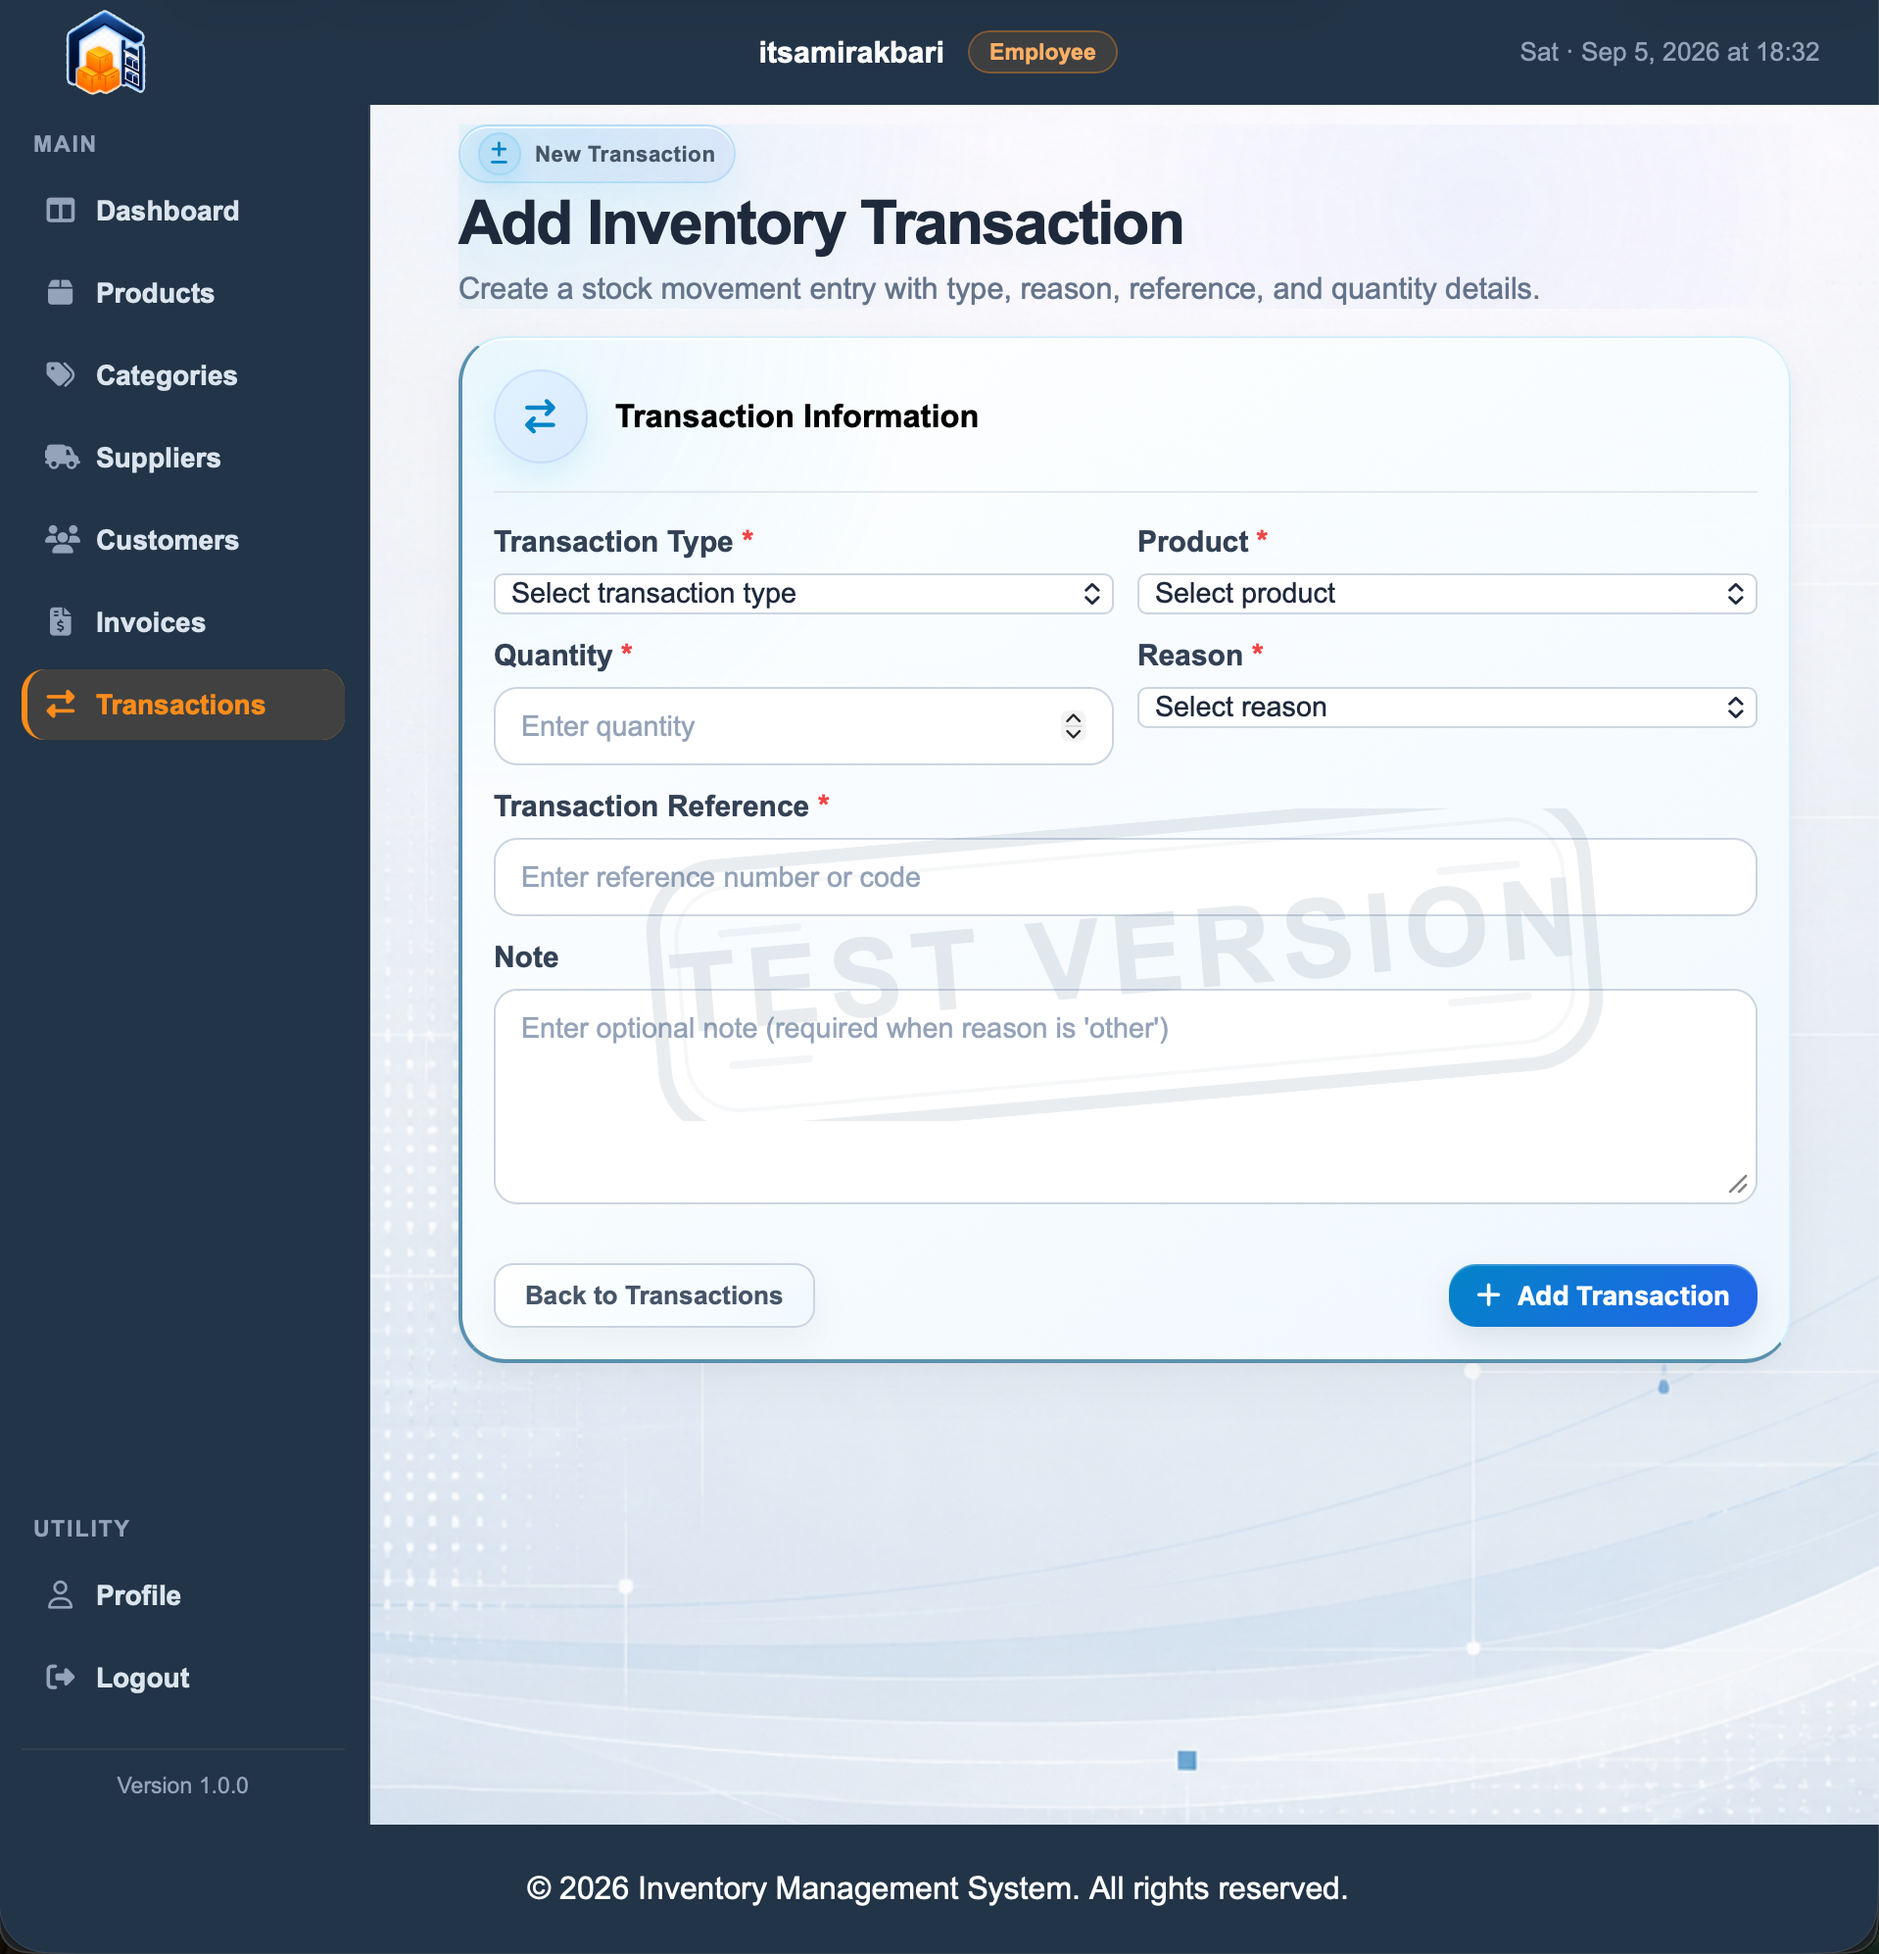
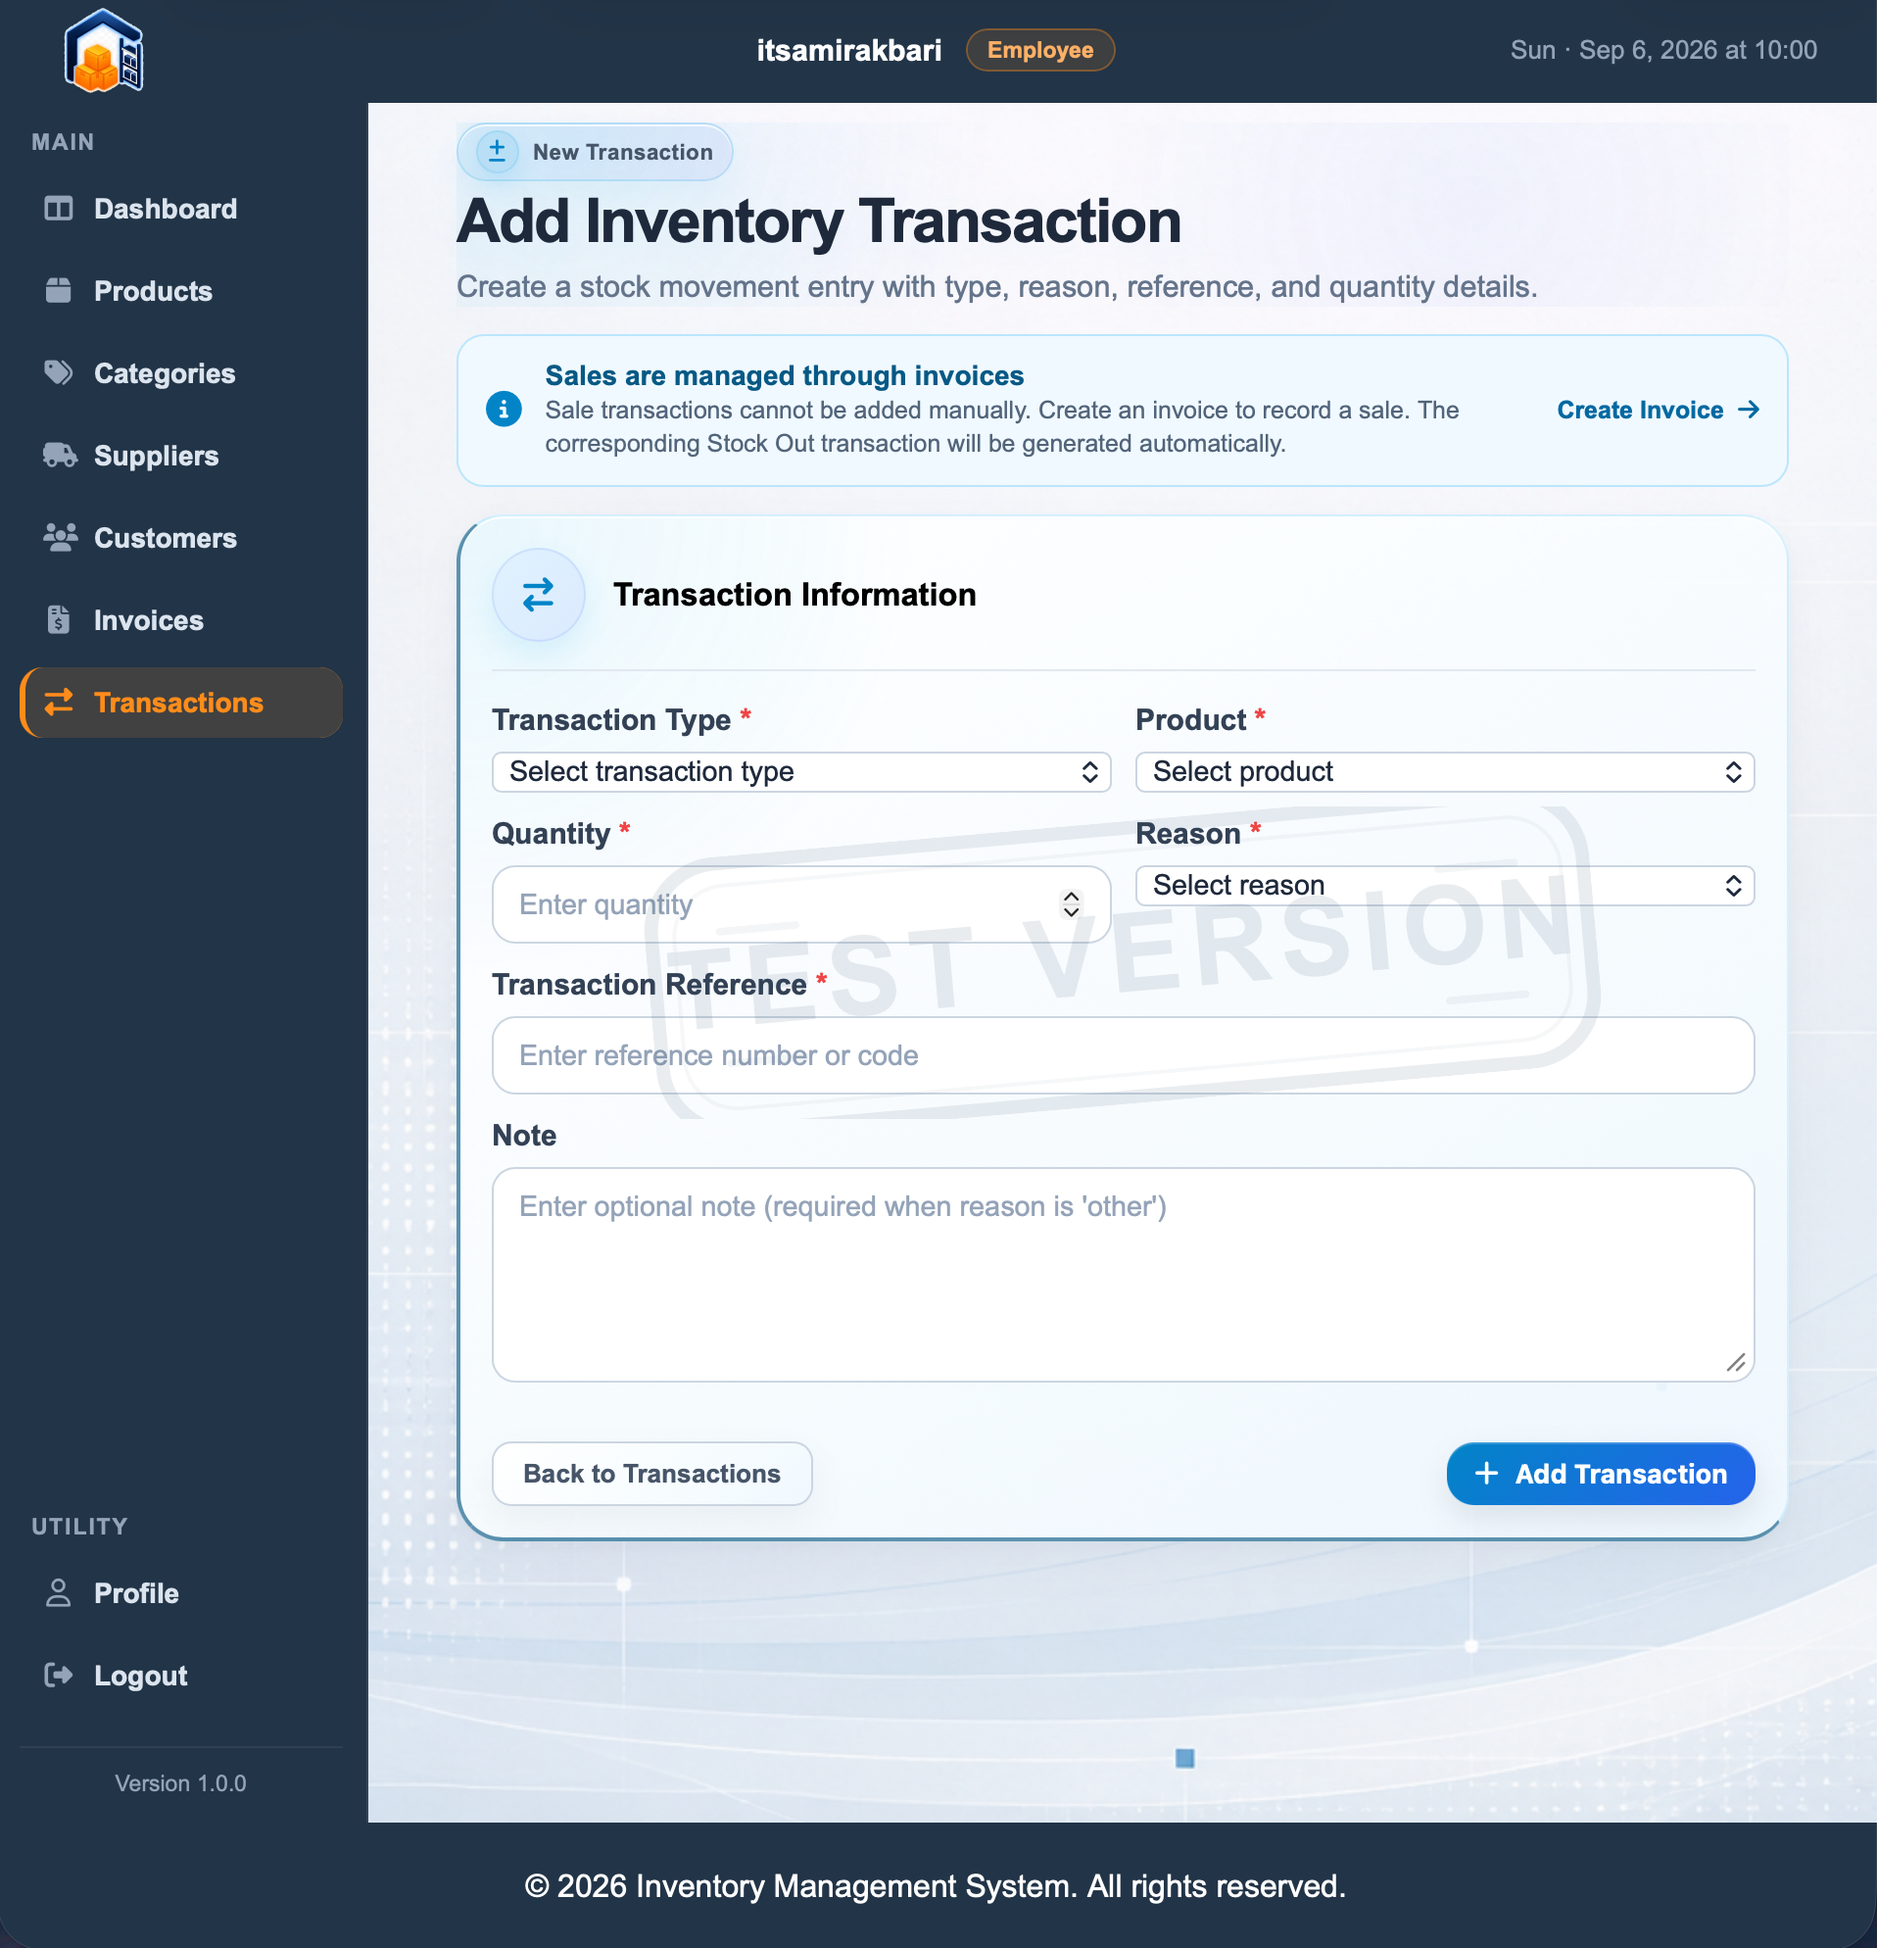
Improve inventory transaction validation

diff --git a/static/js/inventory_transactions.js b/static/js/inventory_transactions.js
@@ -1,39 +1,64 @@
 document.addEventListener("DOMContentLoaded", function () {
-        const searchInput = document.getElementById("inventory-transactions-search");
-        const searchEmpty = document.getElementById("inventory-transactions-search-empty");
-        const countElement = document.querySelector(".inventory-transactions-count");
+    const transactionType = document.getElementById("transaction_type");
+    const reason = document.getElementById("reason");
 
-        if (!searchInput || !countElement) {
-            return;
-        }
+    if (transactionType && reason) {
+        const reasonOptions = Array.from(reason.querySelectorAll("option[data-types]"));
 
-        const rows = Array.from(document.querySelectorAll("tr[data-transaction-search]"));
-        const totalCount = rows.length;
+        const updateReasonOptions = function () {
+            const selectedType = transactionType.value;
 
-        const updateCountLabel = function (visibleCount) {
-            countElement.textContent = `${visibleCount} ${visibleCount === 1 ? "Transaction" : "Transactions"}`;
+            reason.value = "";
+            reason.disabled = !selectedType;
+
+            reasonOptions.forEach(function (option) {
+                const allowedTypes = option.dataset.types.split(" ");
+                const isAllowed = allowedTypes.includes(selectedType);
+
+                option.hidden = !isAllowed;
+                option.disabled = !isAllowed;
+            });
         };
 
-        updateCountLabel(totalCount);
+        transactionType.addEventListener("change", updateReasonOptions);
+        updateReasonOptions();
+    }
 
-        searchInput.addEventListener("input", function () {
-            const query = searchInput.value.trim().toLowerCase();
-            let visibleCount = 0;
+    const searchInput = document.getElementById("inventory-transactions-search");
+    const searchEmpty = document.getElementById("inventory-transactions-search-empty");
+    const countElement = document.querySelector(".inventory-transactions-count");
 
-            rows.forEach(function (row) {
-                const haystack = row.dataset.transactionSearch || "";
-                const matches = haystack.includes(query);
-                row.style.display = matches ? "" : "none";
+    if (!searchInput || !countElement) {
+        return;
+    }
 
-                if (matches) {
-                    visibleCount += 1;
-                }
-            });
+    const rows = Array.from(document.querySelectorAll("tr[data-transaction-search]"));
+    const totalCount = rows.length;
 
-            updateCountLabel(visibleCount);
+    const updateCountLabel = function (visibleCount) {
+        countElement.textContent = `${visibleCount} ${visibleCount === 1 ? "Transaction" : "Transactions"}`;
+    };
 
-            if (searchEmpty) {
-                searchEmpty.hidden = visibleCount !== 0;
+    updateCountLabel(totalCount);
+
+    searchInput.addEventListener("input", function () {
+        const query = searchInput.value.trim().toLowerCase();
+        let visibleCount = 0;
+
+        rows.forEach(function (row) {
+            const haystack = row.dataset.transactionSearch || "";
+            const matches = haystack.includes(query);
+            row.style.display = matches ? "" : "none";
+
+            if (matches) {
+                visibleCount += 1;
             }
         });
+
+        updateCountLabel(visibleCount);
+
+        if (searchEmpty) {
+            searchEmpty.hidden = visibleCount !== 0;
+        }
     });
+});

diff --git a/templates/add_inventory_transaction.html b/templates/add_inventory_transaction.html
@@ -32,6 +32,18 @@ Add Inventory Transaction
             {% endif %}
         {% endwith %}
 
+        <div class="inventory-transaction-sale-info">
+            <i class="fa-solid fa-circle-info"></i>
+            <div>
+                <strong>Sales are managed through invoices</strong>
+                <p>Sale transactions cannot be added manually. Create an invoice to record a sale. The corresponding Stock Out transaction will be generated automatically.</p>
+            </div>
+            <a href="{{ url_for('invoices.add_invoice_route') }}">
+                Create Invoice
+                <i class="fa-solid fa-arrow-right"></i>
+            </a>
+        </div>
+
         <div class="inventory-transactions-form-card add-inventory-transaction-form-card">
             <form action="{{ url_for('inventory_transactions.add_inventory_transaction_route') }}" method="POST">
                 <div class="inventory-transactions-form-header">
@@ -72,17 +84,16 @@ Add Inventory Transaction
 
                     <div class="form-group">
                         <label for="reason">Reason <span class="required-mark">*</span></label>
-                        <select id="reason" name="reason" required>
+                        <select id="reason" name="reason" required disabled>
                             <option value="" disabled selected>Select reason</option>
-                            <option value="purchase">Purchase</option>
-                            <option value="sale">Sale</option>
-                            <option value="return_in">Return In</option>
-                            <option value="return_out">Return Out</option>
-                            <option value="damaged_goods">Damaged Goods</option>
-                            <option value="lost_goods">Lost Goods</option>
-                            <option value="recount_correction">Recount Correction</option>
-                            <option value="manual_adjustment">Manual Adjustment</option>
-                            <option value="other">Other</option>
+                            <option value="purchase" data-types="stock_in">Purchase</option>
+                            <option value="return_in" data-types="stock_in">Return In</option>
+                            <option value="return_out" data-types="stock_out">Return Out</option>
+                            <option value="damaged_goods" data-types="adjustment_out">Damaged Goods</option>
+                            <option value="lost_goods" data-types="adjustment_out">Lost Goods</option>
+                            <option value="recount_correction" data-types="adjustment_in adjustment_out">Recount Correction</option>
+                            <option value="manual_adjustment" data-types="adjustment_in adjustment_out">Manual Adjustment</option>
+                            <option value="other" data-types="stock_in stock_out adjustment_in adjustment_out">Other</option>
                         </select>
                     </div>
 
@@ -108,5 +119,7 @@ Add Inventory Transaction
         </div>
     </div>
 </div>
+
+<script src="{{ url_for('static', filename='js/inventory_transactions.js') }}"></script>
 
 {% endblock %}

diff --git a/static/css/style.css b/static/css/style.css
@@ -6793,6 +6793,56 @@ footer {
     line-height: 1.42;
 }
 
+.inventory-transaction-sale-info {
+    display: flex;
+    align-items: center;
+    gap: 12px;
+    margin-bottom: 14px;
+    padding: 12px 14px;
+    border: 1px solid #bae6fd;
+    border-radius: 14px;
+    background: #f0f9ff;
+    color: #334155;
+}
+
+.inventory-transaction-sale-info > i {
+    color: #0284c7;
+    font-size: 1.15rem;
+}
+
+.inventory-transaction-sale-info div {
+    flex: 1;
+}
+
+.inventory-transaction-sale-info strong {
+    display: block;
+    margin-bottom: 2px;
+    color: #075985;
+    font-size: 0.88rem;
+}
+
+.inventory-transaction-sale-info p {
+    margin: 0;
+    color: #52647a;
+    font-size: 0.78rem;
+    line-height: 1.4;
+}
+
+.inventory-transaction-sale-info a {
+    display: inline-flex;
+    align-items: center;
+    gap: 7px;
+    color: #0369a1;
+    font-size: 0.78rem;
+    font-weight: 700;
+    text-decoration: none;
+    white-space: nowrap;
+}
+
+.inventory-transaction-sale-info a:hover {
+    color: #1d4ed8;
+}
+
 .transaction-detail-stats {
     display: grid;
     grid-template-columns: repeat(3, minmax(0, 1fr));
@@ -6959,6 +7009,15 @@ footer {
 
     .transaction-detail-stats {
         grid-template-columns: 1fr;
+    }
+
+    .inventory-transaction-sale-info {
+        align-items: flex-start;
+        flex-wrap: wrap;
+    }
+
+    .inventory-transaction-sale-info a {
+        margin-left: 30px;
     }
 
     .add-inventory-transaction-actions {

diff --git a/routes/inventory_transactions.py b/routes/inventory_transactions.py
@@ -13,6 +13,20 @@ inventory_transactions_bp = Blueprint("inventory_transactions", __name__)
 logger = logging.getLogger(LOGGER_NAME)
 
 
+MANUAL_TRANSACTION_REASONS = {
+    "stock_in": {"purchase", "return_in", "other"},
+    "stock_out": {"return_out", "other"},
+    "adjustment_in": {"recount_correction", "manual_adjustment", "other"},
+    "adjustment_out": {
+        "damaged_goods",
+        "lost_goods",
+        "recount_correction",
+        "manual_adjustment",
+        "other"
+    }
+}
+
+
 def render_inventory_transactions_page(transactions_list, selected_product_id=None, selected_user_id=None, selected_start_date="", selected_end_date=""):
     products_list = get_all_products()
     users_list = get_all_users()
@@ -121,22 +135,16 @@ def add_inventory_transaction_route():
         flash("Please fill all required fields.", "error")
         return redirect(url_for("inventory_transactions.add_inventory_transaction_route"))
 
-    if transaction_type not in ["stock_in", "stock_out", "adjustment_in", "adjustment_out"]:
+    if transaction_type not in MANUAL_TRANSACTION_REASONS:
         flash("Invalid transaction type.", "error")
         return redirect(url_for("inventory_transactions.add_inventory_transaction_route"))
 
-    if reason not in [
-        "purchase",
-        "sale",
-        "return_in",
-        "return_out",
-        "damaged_goods",
-        "lost_goods",
-        "recount_correction",
-        "manual_adjustment",
-        "other"
-    ]:
-        flash("Invalid transaction reason.", "error")
+    if reason == "sale":
+        flash("Sale transactions are created automatically through invoices.", "error")
+        return redirect(url_for("inventory_transactions.add_inventory_transaction_route"))
+
+    if reason not in MANUAL_TRANSACTION_REASONS[transaction_type]:
+        flash("The selected reason does not match the transaction type.", "error")
         return redirect(url_for("inventory_transactions.add_inventory_transaction_route"))
 
     if reason == "other" and not note:

diff --git a/README.md b/README.md
@@ -14,6 +14,8 @@ InventoryPro ist eine webbasierte Flask-Anwendung für die durchgängige Verwalt
 - Eigene Rechnungsdetailansicht mit Kunden-, Positions- und Erstellerinformationen
 - Rechnungsdownload als mehrseitiges PDF sowie druckoptimierte Browseransicht
 - Automatische `stock_out`-Lagerbewegung mit Referenz auf die Rechnungsnummer
+- Passende Transaktionsgründe abhängig von der gewählten Bewegungsart
+- Manuelle Verkaufsbuchungen gesperrt, da Verkäufe automatisch über Rechnungen gebucht werden
 - Transaktionssichere Bestandsänderungen mit Zeilensperre und Rollback
 - Suche, Filterung und konsistente Tabellenansichten in allen Verwaltungsbereichen
 - Registrierung, Anmeldung, E-Mail-Verifizierung, Passwort-Zurücksetzung und Profilverwaltung
@@ -48,6 +50,8 @@ Unterstützte Gründe:
 - Inventurkorrektur
 - Manuelle Korrektur
 - Sonstiger Grund mit Pflichtnotiz
+
+Manuelle Verkaufsbewegungen sind ausgeschlossen: Beim Erstellen einer Rechnung erzeugt die Anwendung für jede Position automatisch eine `stock_out`-Transaktion mit dem Grund `sale` und der Rechnungsnummer als Referenz. Im manuellen Transaktionsformular werden ausschließlich die zur gewählten Bewegungsart passenden Gründe angeboten.
 
 ## Screenshots
 
